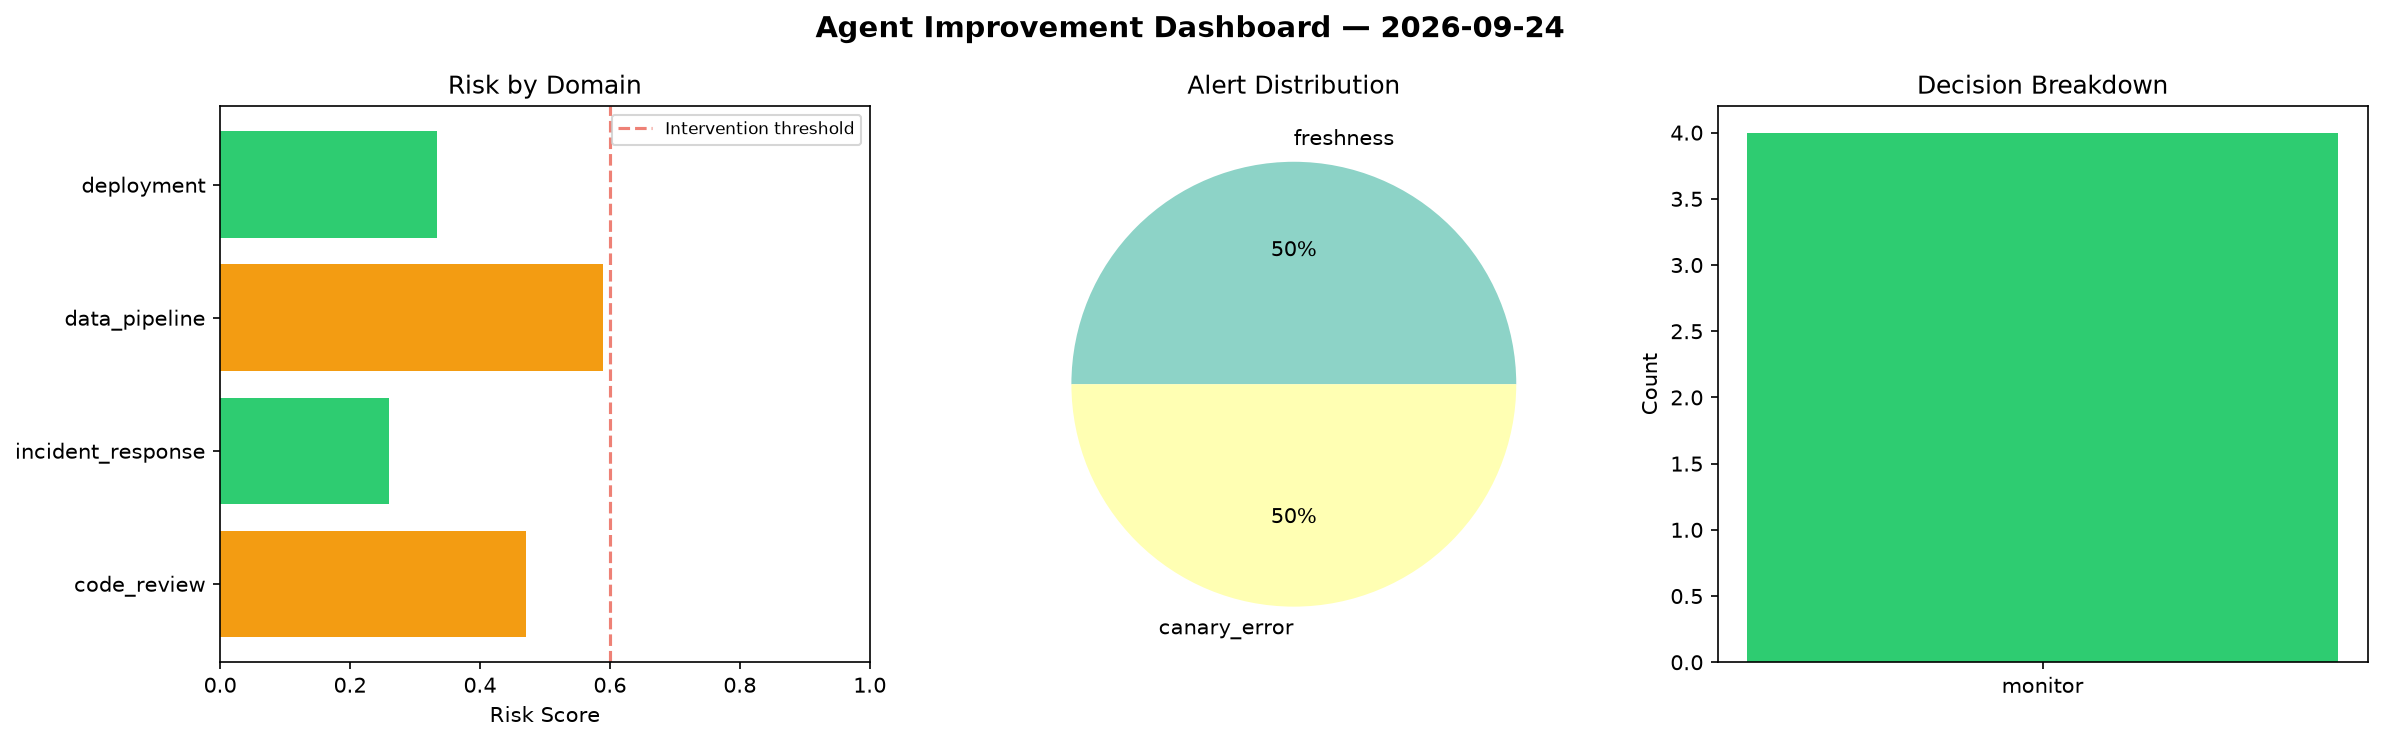
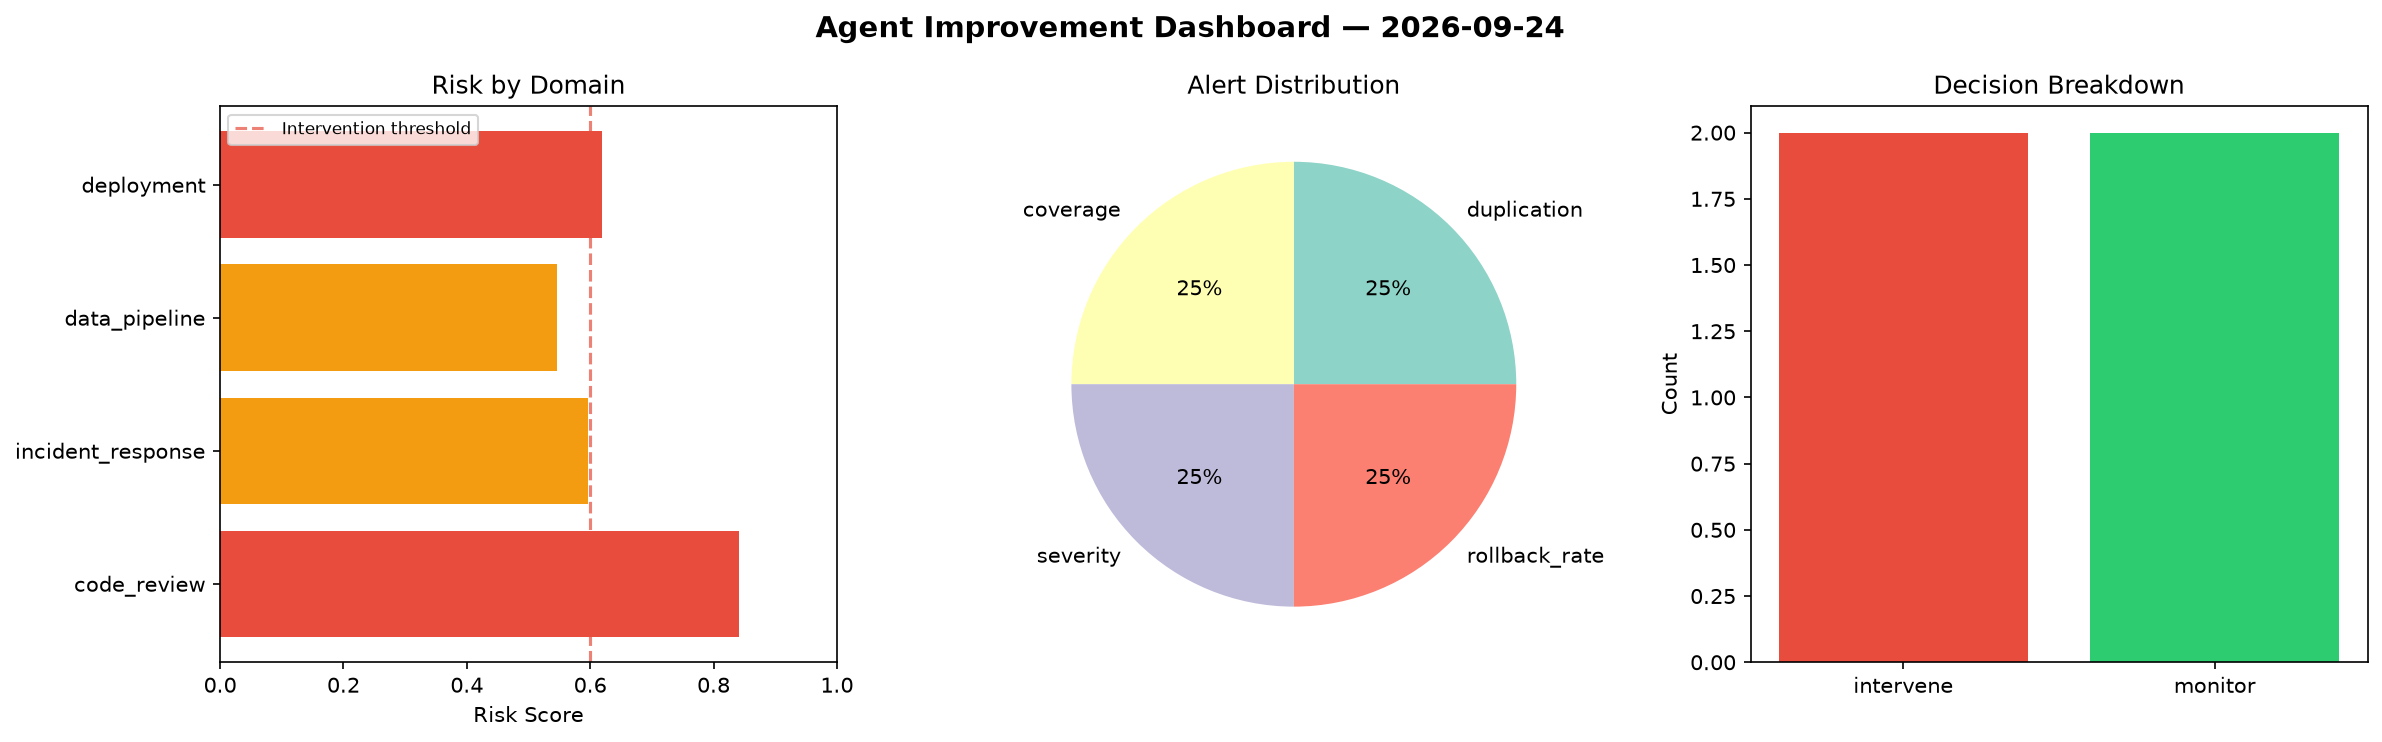
agent-improvement: daily cycle 2026-09-24T13:32

diff --git a/logs/2026-09-24.md b/logs/2026-09-24.md
@@ -1,6 +1,6 @@
 # Agent Improvement Report — 2026-09-24
 
-**Cycle ID:** `c8f71f67` | **Avg Risk:** 0.4132 | **Interventions:** 0/4
+**Cycle ID:** `bd1422e2` | **Avg Risk:** 0.6508 | **Interventions:** 2/4
 
 ![Dashboard](2026-09-24_dashboard.png)
 
@@ -10,18 +10,18 @@
 
 | Domain | Risk Score | Decision | Alerts |
 |--------|-----------|----------|--------|
-| code_review | 0.4707 | monitor | none |
-| incident_response | 0.2597 | monitor | none |
-| data_pipeline | 0.5892 | monitor | freshness |
-| deployment | 0.3332 | monitor | canary_error |
+| code_review | 0.8417 | intervene | duplication, coverage |
+| incident_response | 0.596 | monitor | severity |
+| data_pipeline | 0.5465 | monitor | none |
+| deployment | 0.6189 | intervene | rollback_rate |
 
 ## Delta vs Yesterday
 
 | Domain | Today | Yesterday | Change |
 |--------|-------|-----------|--------|
-| code_review | 0.4707 | 0.1568 | 📈 200.2% |
-| incident_response | 0.2597 | 0.4961 | 📉 -47.7% |
-| data_pipeline | 0.5892 | 0.3574 | 📈 64.9% |
-| deployment | 0.3332 | 0.5467 | 📉 -39.1% |
+| code_review | 0.8417 | 0.1568 | 📈 436.8% |
+| incident_response | 0.596 | 0.4961 | 📈 20.1% |
+| data_pipeline | 0.5465 | 0.3574 | 📈 52.9% |
+| deployment | 0.6189 | 0.5467 | 📈 13.2% |
 
 **Refinement:** `{'adjustment': 'maintain', 'trend': 'improving', 'window': 4}`
